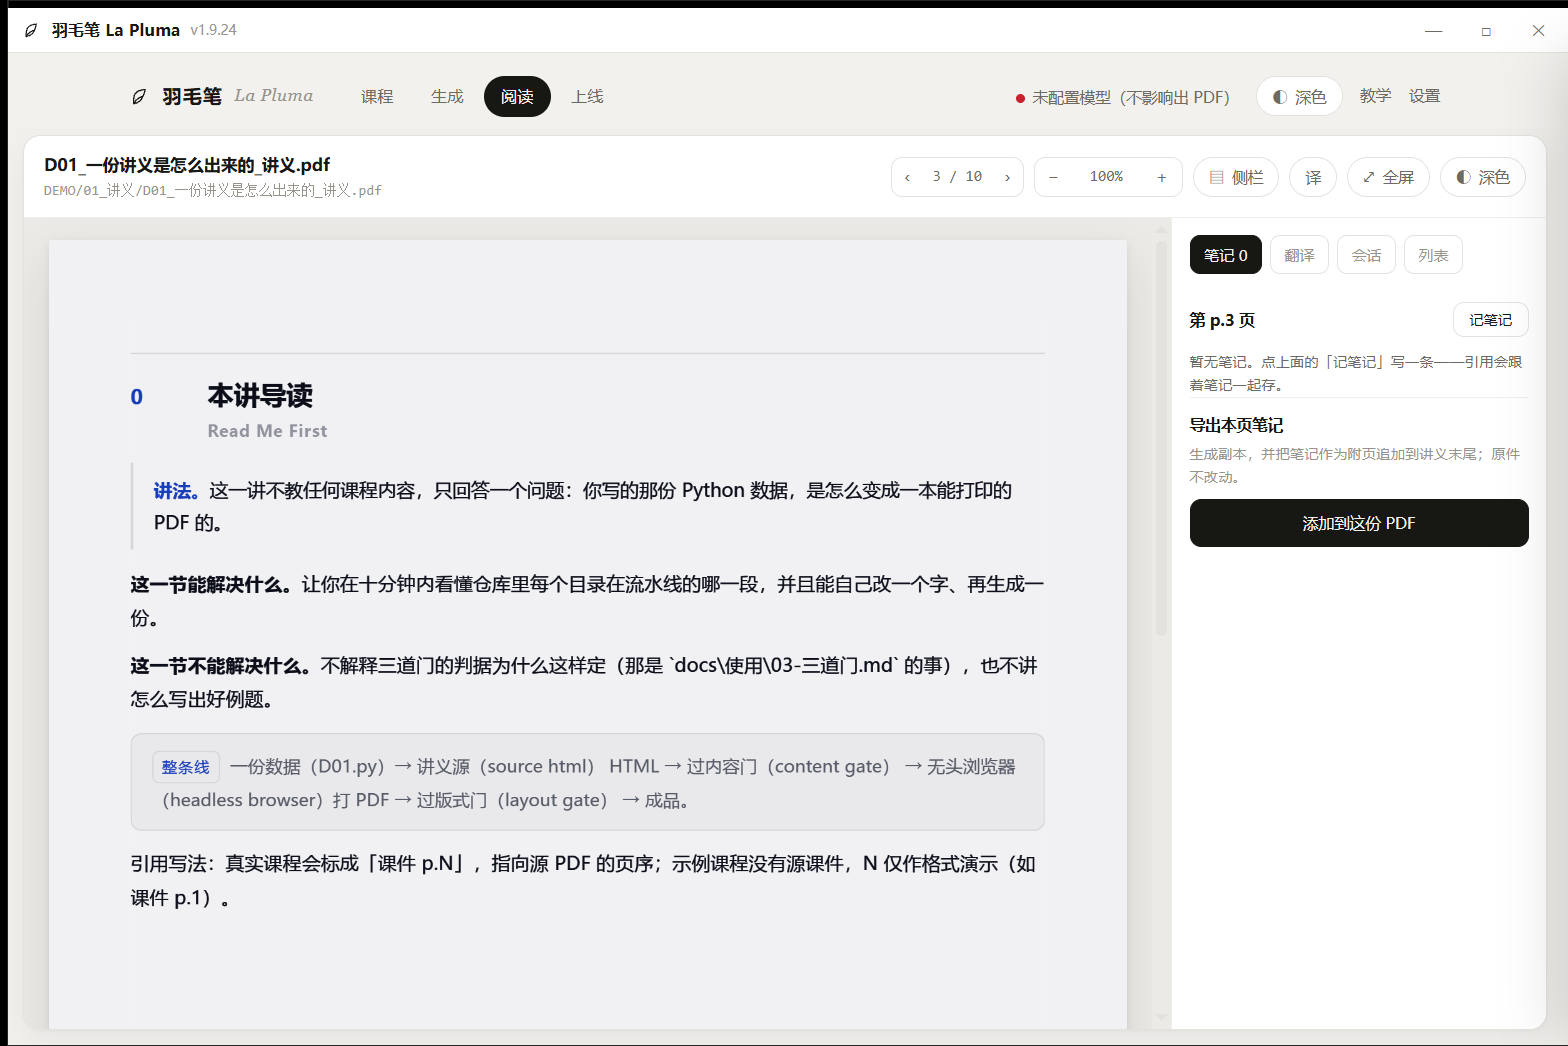
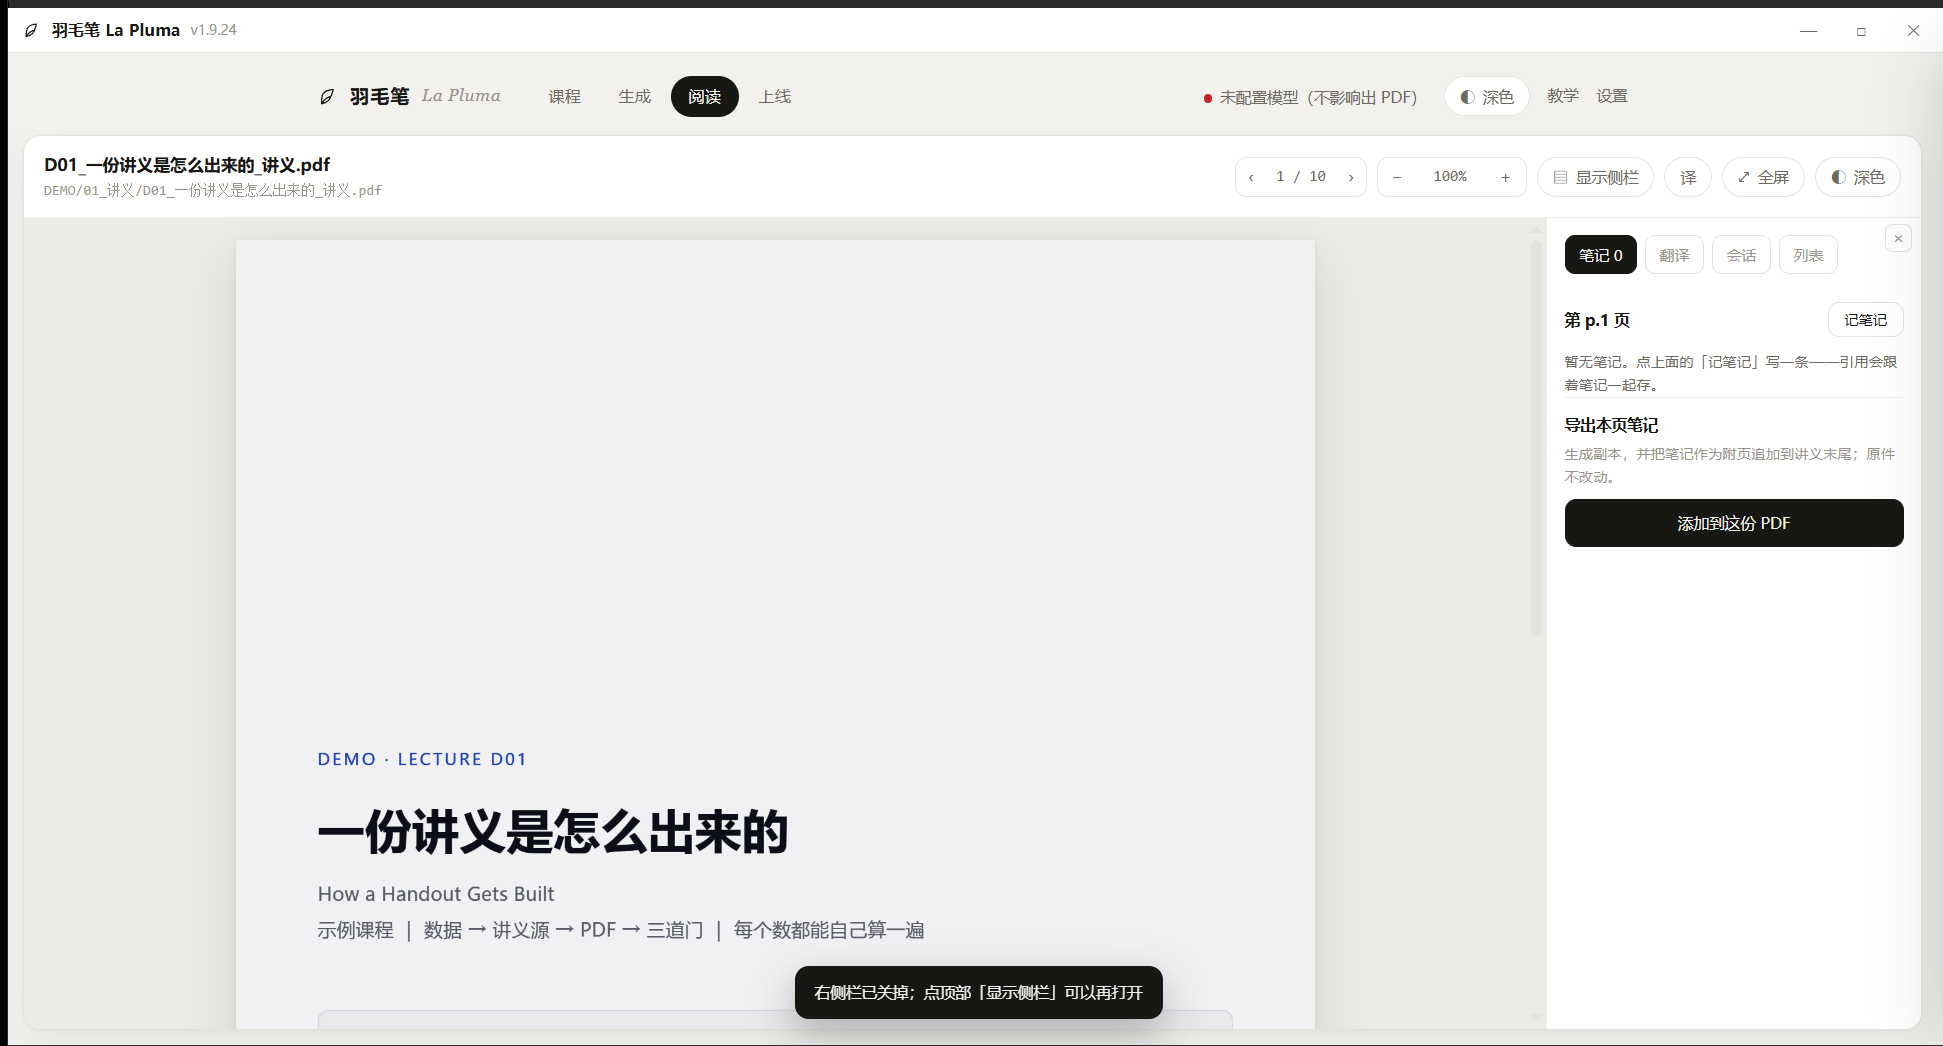
feat(阅读): 侧栏按钮只显示（不再隐藏），每侧右上角可关掉这一侧

diff --git a/ui/index.html b/ui/index.html
@@ -433,6 +433,13 @@ body.read-mode footer{display:none}
 .side-col.right{border-left:1px solid var(--line2)}
 .side-grip{position:absolute;top:0;bottom:0;width:7px;z-index:7;cursor:ew-resize;touch-action:none}
 .side-col.left .side-grip{right:-4px}
+/* 2026-11-26 用户：「增加侧栏右上角可以删除侧栏（例如我想只要左边的我就删除右边的侧栏）」。
+   关掉的侧记在 localStorage（pluma.sideOff），顶部「显示侧栏」可以再接回来。 */
+.side-close{position:absolute;top:5px;right:7px;z-index:9;width:22px;height:22px;padding:0;
+  border:1px solid var(--line);background:var(--card);color:var(--faint);border-radius:6px;
+  font:inherit;font-size:13px;line-height:1;cursor:pointer;display:flex;align-items:center;justify-content:center}
+.side-close:hover{color:var(--ink);border-color:var(--faint)}
+.side-close[hidden]{display:none}
 .side-col.right .side-grip{left:-4px}
 .side-grip[hidden]{display:none}
 body.col-resizing{cursor:ew-resize;user-select:none}
@@ -1139,7 +1146,7 @@ body.win #appScroll{flex:1 1 auto;min-height:0;overflow-y:auto;overflow-x:hidden
         <div class="read-ctl">
           <div class="seg"><button id="pgPrev">‹</button><span class="val" id="pgVal">— / —</span><button id="pgNext">›</button></div>
           <div class="seg"><button id="zOut">−</button><span class="val" id="zVal">100%</span><button id="zIn">＋</button></div>
-          <button class="tbtn" id="btnNotes" title="显示 / 隐藏侧栏">▤ <span id="notesLabel">侧栏</span></button>
+          <button class="tbtn" id="btnNotes" title="显示侧栏（关掉的侧栏会接回来）">▤ <span id="notesLabel">显示侧栏</span></button>
           <button class="tbtn" id="btnTrans" title="翻译这一页（会调用模型）">译</button>
           <button class="tbtn" id="btnFs"><span id="fsIcon">⤢</span><span id="fsLabel">全屏</span></button>
           <button class="tbtn" id="btnTheme2"><span id="themeIcon2">◐</span><span id="themeLabel2">深色</span></button>
@@ -1154,6 +1161,7 @@ body.win #appScroll{flex:1 1 auto;min-height:0;overflow-y:auto;overflow-x:hidden
         <!-- 2026-11-25：每侧一列，上下两格；面板在哪一格由 JS（applyDock）放。
              左边先摆着（hidden），面板搬过来时才显示。 -->
         <div class="side-col left" data-side="left" hidden>
+          <button class="side-close" data-close="left" title="关掉左侧栏（顶部「显示侧栏」可以再打开）">×</button>
           <div class="side dock" data-slot="lt" hidden>
             <div class="side-tabs"></div>
             <div class="dock-body"></div>
@@ -1167,6 +1175,7 @@ body.win #appScroll{flex:1 1 auto;min-height:0;overflow-y:auto;overflow-x:hidden
         </div>
         <div class="reader" id="readerBox"><div id="pdfwrap"><canvas id="pdfcanvas"></canvas><div id="pdfhl"></div><div id="pdftext"></div></div></div>
         <div class="side-col right" data-side="right">
+          <button class="side-close" data-close="right" title="关掉右侧栏（顶部「显示侧栏」可以再打开）">×</button>
           <div class="side dock" data-slot="rt">
             <div class="side-tabs"></div>
             <div class="dock-body">
@@ -3325,6 +3334,12 @@ let SIDE_W = { left: 300, right: 300 };
 let SIDE_SPLIT = { left: 50, right: 50 };
 let SIDE_HIDDEN = false;
 try{ SIDE_HIDDEN = localStorage.getItem('pluma.hideSide') === '1'; }catch(_){}
+/* 2026-11-26：每侧右上角的 × 关掉那一侧；关掉的是「这一侧」，面板本身还在，点「显示侧栏」接回来。 */
+let SIDE_OFF = { left: false, right: false };
+try{
+  const jo = JSON.parse(localStorage.getItem('pluma.sideOff') || 'null') || {};
+  SIDE_OFF.left = !!jo.left; SIDE_OFF.right = !!jo.right;
+}catch(_){ }
 
 function loadDockState(){
   try{
@@ -3356,12 +3371,13 @@ function saveDock(){
     localStorage.setItem('pluma.sideActive', JSON.stringify(SIDE_ACTIVE));
     localStorage.setItem('pluma.sideW', JSON.stringify(SIDE_W));
     localStorage.setItem('pluma.sideSplit', JSON.stringify(SIDE_SPLIT));
+    localStorage.setItem('pluma.sideOff', JSON.stringify(SIDE_OFF));
   }catch(_){ }
 }
 function panelEl(k){ return document.getElementById(PANEL_IDS[k]); }
 function dockEl(slot){ return document.querySelector('.side.dock[data-slot="' + slot + '"]'); }
 function dockList(slot){ return PANEL_KEYS.filter(k => SIDE_DOCK[k] === slot); }
-function slotShown(slot){ return !SIDE_HIDDEN && dockList(slot).length > 0; }
+function slotShown(slot){ return !SIDE_HIDDEN && !SIDE_OFF[SLOT_SIDE[slot]] && dockList(slot).length > 0; }
 function sideShown(side){ return SLOTS.some(s => SLOT_SIDE[s] === side && slotShown(s)); }
 function visibleWidths(){
   return { left: sideShown('left') ? SIDE_W.left : 0,
@@ -3433,7 +3449,7 @@ function applyDock(){
   SLOTS.forEach(slot => {
     const dock = dockEl(slot); if(!dock) return;
     const list = dockList(slot);
-    const on = !SIDE_HIDDEN && list.length > 0;
+    const on = !SIDE_HIDDEN && !SIDE_OFF[SLOT_SIDE[slot]] && list.length > 0;
     dock.hidden = !on;
     shown[slot] = on;
     if(!on) return;
@@ -3557,18 +3573,37 @@ document.querySelectorAll('.dropzone').forEach(z => {
 function applySide(){
   const card = readCard();
   if(card) card.classList.toggle('hide-side', SIDE_HIDDEN);
-  if($('#notesLabel')) $('#notesLabel').textContent = SIDE_HIDDEN ? '显示侧栏' : '侧栏';
+  if($('#notesLabel')) $('#notesLabel').textContent = '显示侧栏';
   applyDock();
 }
+/* 2026-11-26 用户：「取消隐藏侧栏按钮 改为显示侧栏」——这个按钮只负责把侧栏露出来，
+   关掉某一侧改用每列右上角的 ×（见下面 .side-close）。 */
 $('#btnNotes').onclick = () => {
   const before = visibleWidths();
-  SIDE_HIDDEN = !SIDE_HIDDEN;
-  try{ localStorage.setItem('pluma.hideSide', SIDE_HIDDEN ? '1' : '0'); }catch(_){ }
+  SIDE_HIDDEN = false;
+  SIDE_OFF.left = false; SIDE_OFF.right = false;
+  if(!PANEL_KEYS.some(k => SLOTS.includes(SIDE_DOCK[k]))) { SIDE_DOCK.notes = 'rt'; }  // 兜底：恢复到出厂「笔记在右上」
+  try{ localStorage.setItem('pluma.hideSide', '0'); }catch(_){ }
+  saveDock();
   applySide();
-  if(!SIDE_HIDDEN && typeof sideTab === 'function') sideTab('notes');   // 打开时回到笔记页签
+  if(typeof sideTab === 'function') sideTab('notes');
   shiftWindowForDock(before);
   setTimeout(() => { if(RD.doc) renderPdf(); }, 120);
 };
+/* 每侧右上角的 ×：只关这一侧，不把面板删掉——点「显示侧栏」接回来。 */
+document.querySelectorAll('.side-close').forEach(b => {
+  b.onclick = (e) => {
+    e.stopPropagation();
+    const side = b.dataset.close;
+    const before = visibleWidths();
+    SIDE_OFF[side] = true;
+    saveDock();
+    applyDock();
+    shiftWindowForDock(before);
+    setTimeout(() => { if(RD.doc) renderPdf(); }, 120);
+    toast((side === 'left' ? '左' : '右') + '侧栏已关掉；点顶部「显示侧栏」可以再打开');
+  };
+});
 
 /* ---- 拖宽侧栏 / 拖高上下两块（2026-11-25 用户第四条） ---- */
 function setSideWidth(side, w, opts){

diff --git a/tools/check/check-reading-tools.py b/tools/check/check-reading-tools.py
@@ -359,6 +359,19 @@ def check(root):
         and "body.win{height:100vh;overflow:hidden;display:flex;flex-direction:column}" in idx
     ), "pdf.js 的字体测量画布（不透明黑）被挪出视口并缩到 1px；否则它会成为 body 的 flex 子项，实测把 #appScroll 从 794 挤到 168（页面下半截全黑）")
 
+    # 23 侧栏「显示侧栏」+ 每侧右上角 ×（2026-11-26 用户定）
+    add(23, "侧栏：按钮只显示、每侧右上角可关掉", (
+        'id="btnNotes" title="显示侧栏（关掉的侧栏会接回来）"' in idx
+        and '<span id="notesLabel">显示侧栏</span>' in idx                # 不再有「隐藏侧栏」
+        and "SIDE_HIDDEN = false;\n  SIDE_OFF.left = false; SIDE_OFF.right = false;" in idx
+        and "let SIDE_OFF = { left: false, right: false };" in idx
+        and "localStorage.setItem('pluma.sideOff', JSON.stringify(SIDE_OFF))" in idx
+        and "function slotShown(slot){ return !SIDE_HIDDEN && !SIDE_OFF[SLOT_SIDE[slot]] && dockList(slot).length > 0; }" in idx
+        and 'data-close="left"' in idx and 'data-close="right"' in idx
+        and "SIDE_OFF[side] = true;" in idx
+        and "点顶部「显示侧栏」可以再打开" in idx
+    ), "顶部按钮只负责显示（关掉的侧栏一并接回，不再当隐藏开关）；每侧一列右上角有 ×，只关掉这一侧、面板不删，选择记在 pluma.sideOff")
+
     return rows
 
 
@@ -427,6 +440,9 @@ def selftest():
             ("列表页签被拿掉", 21, IDX, 'id="sideList" hidden', 'id="sideListX" hidden'),
             ("会话开场白被拿掉", 21, IDX, 'class="msg a sc-welcome"', 'class="msg a"'),
             ("pdf.js 测量画布又占位", 22, IDX, ".hiddenCanvasElement{position:absolute !important", ".hiddenCanvasElement{"),
+            ("侧栏右上角的关闭按钮被拿掉", 23, IDX, 'data-close="left"', 'data-closeX="left"'),
+            ("显示侧栏又变回隐藏开关", 23, IDX, "SIDE_HIDDEN = false;\n  SIDE_OFF.left = false; SIDE_OFF.right = false;", "SIDE_HIDDEN = !SIDE_HIDDEN;"),
+            ("关掉的侧栏没有记账", 23, IDX, "localStorage.setItem('pluma.sideOff', JSON.stringify(SIDE_OFF))", "localStorage.setItem('pluma.sideOffX', JSON.stringify(SIDE_OFF))"),
         ]
         all_ok = True
         for label, no, rel, old, new in defects:
